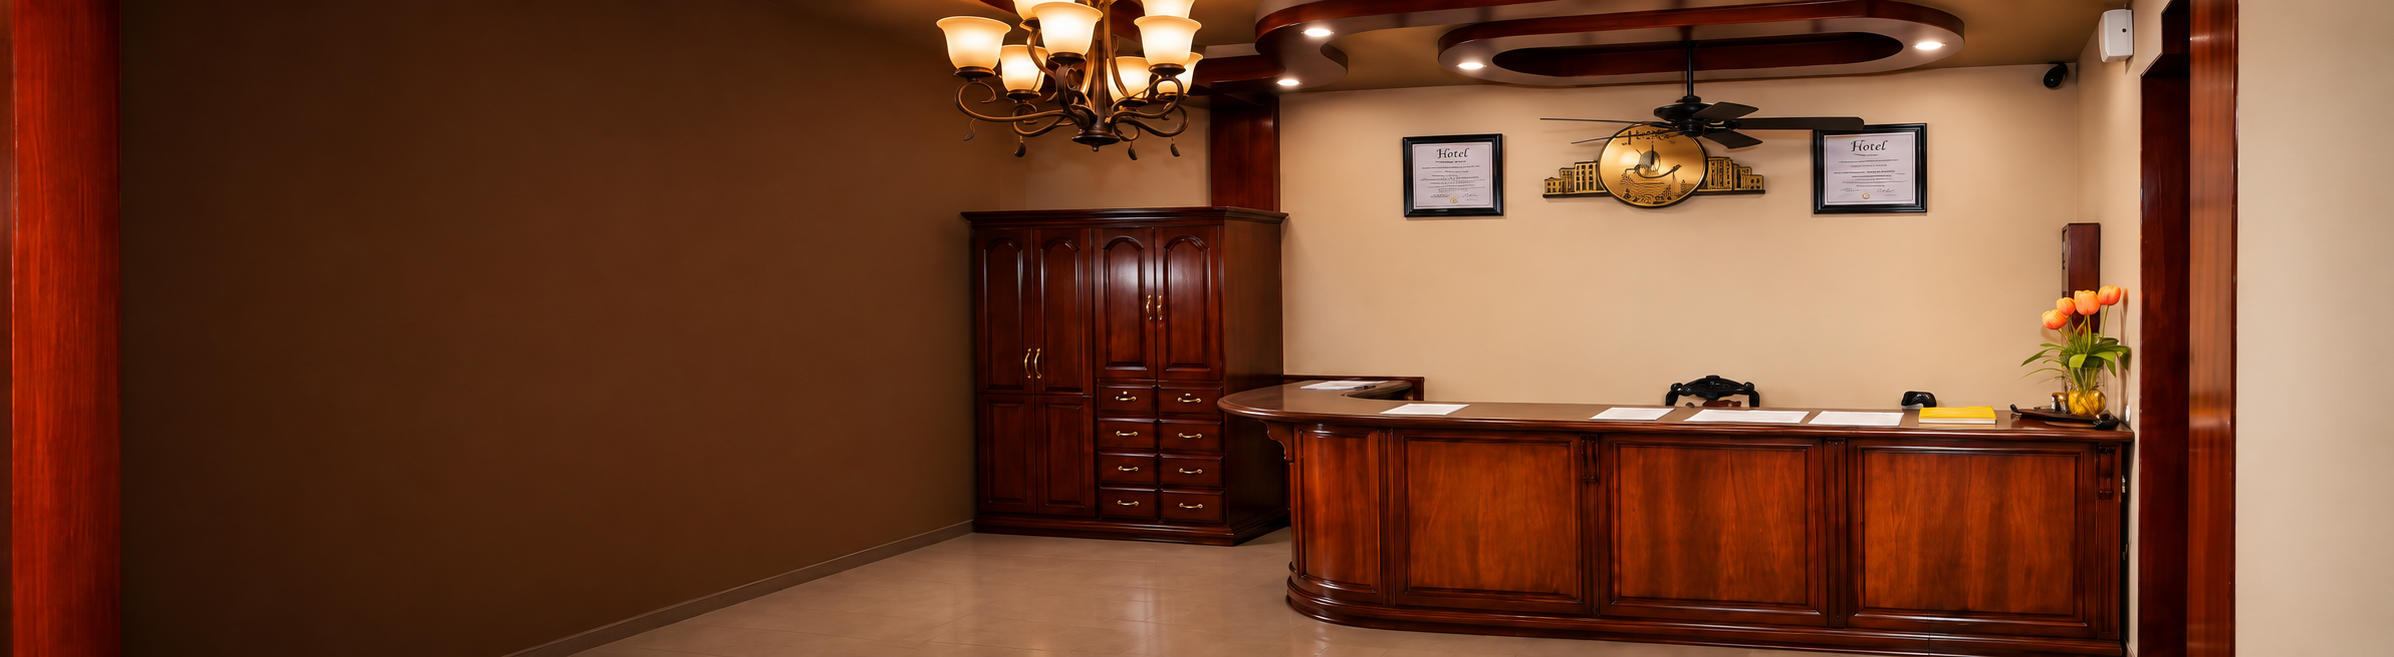
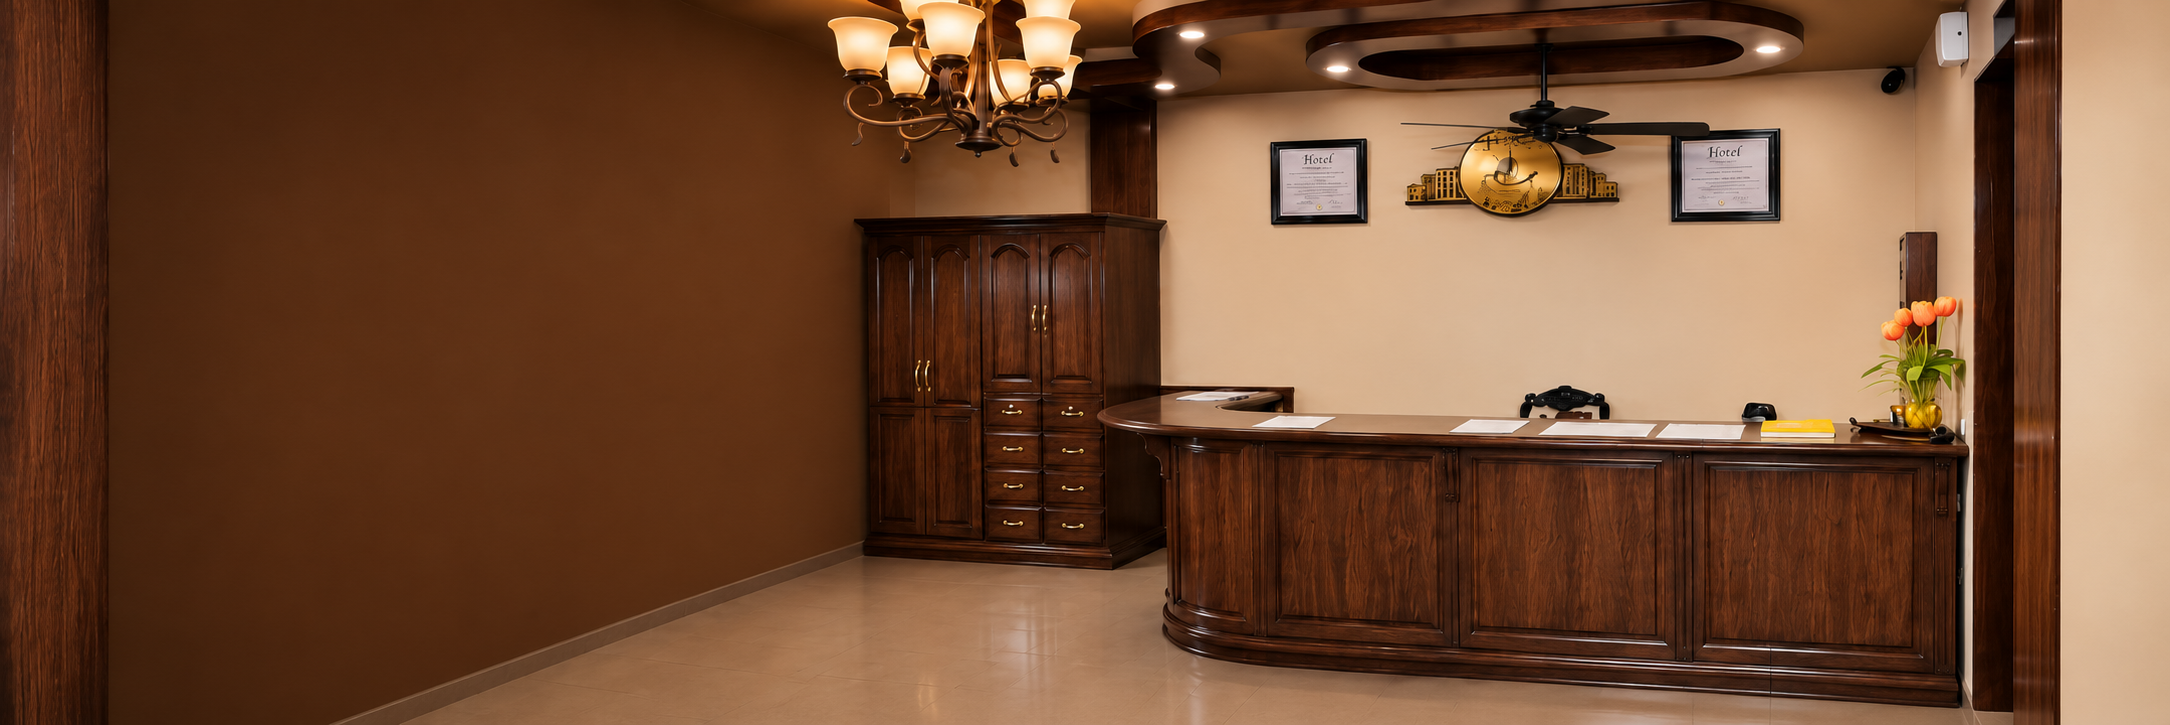
chore(media): actualizar imagen de inicio con Recepcion del hotel Venecia nogal.png

diff --git a/index.html b/index.html
@@ -19,7 +19,7 @@
   <link
     href="https://fonts.googleapis.com/css2?family=Fraunces:opsz,wght@9..144,500;9..144,700&family=Inter:wght@400;500;600&display=swap"
     rel="stylesheet">
-  <link rel="preload" as="image" href="assets/img/lobbyz.png?v=20261123u">
+  <link rel="preload" as="image" href="assets/img/lobbyz.png?v=20261123v">
   <link rel="stylesheet" href="css/styles.css?v=20261123o">
   <style>
     /* Galería deslizante editorial (Carrusel horizontal con vista previa lateral) */
@@ -202,7 +202,7 @@
     <!-- ===== Portada Editorial ===== -->
     <section class="hero" id="inicio" aria-label="Portada Hotel Plaza Venecia">
       <div class="hero__slider" id="hero-slider">
-        <div class="hero__slide is-active" style="background-image:url('assets/img/lobbyz.png?v=20261123u')"></div>
+        <div class="hero__slide is-active" style="background-image:url('assets/img/lobbyz.png?v=20261123v')"></div>
         <div class="hero__slide" style="background-image:url('assets/img/habitacion-suite.jpg?v=20261123a')"></div>
         <div class="hero__slide" style="background-image:url('assets/img/bar-venetto.jpg?v=20261120x')"></div>
       </div>
